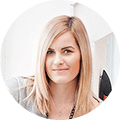
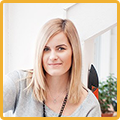
5,6
добавлены картинки в разметку и карты

diff --git a/contacts.html b/contacts.html
@@ -11,7 +11,7 @@
   <div class="container">
     <div class="logo">
         <a href="#" class="logo-link">
-          <img src="#" alt="грузовик" class="logo-link-img" />
+          <img src="img/truck_icon.svg" alt="грузовик" class="logo-link-img" />
           <span class="logo-link-text"><b>Спецтех</b>24</span>
         </a>
     </div>
@@ -38,7 +38,7 @@
 
   <div class="map">
     <div class="container">
-      <iframe src="https://www.google.com/maps/embed?pb=!1m18!1m12!1m3!1d2245.26317921276!2d37.61860631548347!3d55.753930280553625!2m3!1f0!2f0!3f0!3m2!1i1024!2i768!4f13.1!3m3!1m2!1s0x46b54a5a738fa419%3A0x7c347d506b52311f!2z0JrRgNCw0YHQvdCw0Y8g0J_Qu9C-0YnQsNC00Yw!5e0!3m2!1sru!2sru!4v1480448340563" width="600" height="450" frameborder="0" style="border:0" allowfullscreen></iframe>
+      <iframe src="https://www.google.com/maps/embed?pb=!1m18!1m12!1m3!1d2245.26317921276!2d37.61860631548347!3d55.753930280553625!2m3!1f0!2f0!3f0!3m2!1i1024!2i768!4f13.1!3m3!1m2!1s0x46b54a5a738fa419%3A0x7c347d506b52311f!2z0JrRgNCw0YHQvdCw0Y8g0J_Qu9C-0YnQsNC00Yw!5e0!3m2!1sru!2sru!4v1480448340563" width="620" height="395" frameborder="0" style="border:0" allowfullscreen></iframe>
       <div class="map-consult">
         <strong>Lorem.</strong>
         <strong>Lorem ipsum.</strong>
@@ -57,22 +57,22 @@
     <div class="container">
       <h2>Lorem.</h2>
       <div class="reply-item">      
-        <img src="#" alt="photo" />
+        <img src="img/tim2X3szprw2.png" alt="photo" />
       <blockquote class="reply-bq">Lorem ipsum dolor sit amet.</blockquote>
       <cite class="reply-author">Lorem ipsum dolor.</cite>
       </div>
       <div class="reply-item">      
-        <img src="#" alt="photo" />
+        <img src="img/9hJz4EqjRNQ.png" alt="photo" />
         <blockquote class="reply-bq">Lorem ipsum dolor sit amet.</blockquote>
         <cite class="reply-author">Lorem ipsum dolor.</cite>
       </div>
       <div class="reply-item">      
-        <img src="#" alt="photo" />
+        <img src="img/tuOPQaASJsc2.png" alt="photo" />
         <blockquote class="reply-bq">Lorem ipsum dolor sit amet.</blockquote>
         <cite class="reply-author">Lorem ipsum dolor.</cite>
       </div>
       <div class="reply-item">      
-        <img src="#" alt="photo" />
+        <img src="img/o6JLO1rRXUM.png" alt="photo" />
         <blockquote class="reply-bq">Lorem ipsum dolor sit amet.</blockquote>
         <cite class="reply-author">Lorem ipsum dolor.</cite>
       </div>
@@ -84,7 +84,7 @@
   <div class="container">
     <div class="logo">
         <a href="#" class="logo-link">
-          <img src="#" alt="грузовик" class="logo-link-img" />
+          <img src="img/truck_icon_white.svg" alt="грузовик" class="logo-link-img" />
           <span class="logo-link-text"><b>Спецтех</b>24</span>
         </a>
     </div>

diff --git a/catalog.html b/catalog.html
@@ -11,7 +11,7 @@
   <div class="container">
     <div class="logo">
         <a href="#" class="logo-link">
-          <img src="#" alt="грузовик" class="logo-link-img" />
+          <img src="img/truck_icon.svg" alt="грузовик" class="logo-link-img" />
           <span class="logo-link-text"><b>Спецтех</b>24</span>
         </a>
     </div>
@@ -54,7 +54,7 @@
 
       <div class="cat">
         <h2>Lorem ipsum dolor.</h2>
-        <img src="#" alt="cat M315D">
+        <img src="img/catm315d.png" alt="cat M315D">
         <span>Lorem ipsum.</span>
         <a href="#" class="cat-rent"></a>
         <a href="#" class="cat-more"></a>
@@ -62,7 +62,7 @@
 
       <div class="cat">
         <h2>Lorem ipsum dolor.</h2>
-        <img src="#" alt="cat M315D">
+        <img src="img/catm315d.png" alt="cat M315D">
         <span>Lorem ipsum.</span>
         <a href="#" class="cat-rent"></a>
         <a href="#" class="cat-more"></a>
@@ -71,7 +71,7 @@
   	 
       <div class="cat">
         <h2>Lorem ipsum dolor.</h2>
-        <img src="#" alt="cat M315D">
+        <img src="img/catm315d.png" alt="cat M315D">
         <span>Lorem ipsum.</span>
         <a href="#" class="cat-rent"></a>
         <a href="#" class="cat-more"></a>
@@ -79,7 +79,7 @@
 
       <div class="cat">
         <h2>Lorem ipsum dolor.</h2>
-        <img src="#" alt="cat M315D">
+        <img src="img/catm315d.png" alt="cat M315D">
         <span>Lorem ipsum.</span>
         <a href="#" class="cat-rent"></a>
         <a href="#" class="cat-more"></a>
@@ -99,7 +99,7 @@
 
     <div class="cat">
       <h2>Lorem ipsum dolor.</h2>
-      <img src="#" alt="cat M315D">
+      <img src="img/catm315d.png" alt="cat M315D">
       <span><s>Lorem.</s>Lorem ipsum.</span>
       <a href="#" class="cat-rent"></a>
       <a href="#" class="cat-more"></a>
@@ -107,7 +107,7 @@
 
     <div class="cat">
       <h2>Lorem ipsum dolor.</h2>
-      <img src="#" alt="cat M315D">
+      <img src="img/catm315d.png" alt="cat M315D">
       <span><s>Lorem.</s>Lorem ipsum.</span>
       <a href="#" class="cat-rent"></a>
       <a href="#" class="cat-more"></a>
@@ -115,7 +115,7 @@
 
     <div class="cat">
       <h2>Lorem ipsum dolor.</h2>
-      <img src="#" alt="cat M315D">
+      <img src="img/catm315d.png" alt="cat M315D">
       <span><s>Lorem.</s>Lorem ipsum.</span>
       <a href="#" class="cat-rent"></a>
       <a href="#" class="cat-more"></a>
@@ -128,7 +128,7 @@
   <div class="container">
     <div class="logo">
         <a href="#" class="logo-link">
-          <img src="#" alt="грузовик" class="logo-link-img" />
+          <img src="img/truck_icon_white.svg" alt="грузовик" class="logo-link-img" />
           <span class="logo-link-text"><b>Спецтех</b>24</span>
         </a>
     </div>

diff --git a/index.html b/index.html
@@ -11,7 +11,7 @@
   <div class="container">
     <div class="logo">
         <a href="#" class="logo-link">
-          <img src="#" alt="грузовик" class="logo-link-img" />
+          <img src="img/truck_icon.svg" alt="грузовик" class="logo-link-img" />
           <span class="logo-link-text"><b>Спецтех</b>24</span>
         </a>
     </div>
@@ -104,12 +104,12 @@
       <div class="reply">
         <h2>Lorem ipsum dolor.</h2>
         <div class="reply-item">      
-          <img src="#" alt="photo" />
+          <img src="img/tim2X3szprw.png" alt="photo" />
           <blockquote class="reply-bq">Lorem ipsum dolor sit amet.</blockquote>
           <cite class="reply-author">Lorem ipsum dolor.</cite>
         </div>
         <div class="reply-item">      
-          <img src="#" alt="photo" />
+          <img src="img/tuOPQaASJsc.png" alt="photo" />
           <blockquote class="reply-bq">Lorem ipsum dolor sit amet.</blockquote>
           <cite class="reply-author">Lorem ipsum dolor.</cite>
         </div>
@@ -117,7 +117,7 @@
     </div>
   </div>
 
-  <iframe src="https://api-maps.yandex.ru/frame/v1/-/CZDieTl9" width="960" height="400" frameborder="0"></iframe>
+  <iframe src="https://api-maps.yandex.ru/frame/v1/-/CZDieTl9" width="100%" height="500" frameborder="0"></iframe>
 
 </main>
 
@@ -125,7 +125,7 @@
   <div class="container">
     <div class="logo">
         <a href="#" class="logo-link">
-          <img src="#" alt="грузовик" class="logo-link-img" />
+          <img src="img/truck_icon_white.svg" alt="грузовик" class="logo-link-img" />
           <span class="logo-link-text"><b>Спецтех</b>24</span>
         </a>
     </div>

diff --git a/portfolio.html b/portfolio.html
@@ -11,7 +11,7 @@
   <div class="container">
     <div class="logo">
         <a href="#" class="logo-link">
-          <img src="#" alt="грузовик" class="logo-link-img" />
+          <img src="img/truck_icon.svg" alt="грузовик" class="logo-link-img" />
           <span class="logo-link-text"><b>Спецтех</b>24</span>
         </a>
     </div>
@@ -99,7 +99,7 @@
   <div class="container">
     <div class="logo">
         <a href="#" class="logo-link">
-          <img src="#" alt="грузовик" class="logo-link-img" />
+          <img src="img/truck_icon_white.svg" alt="грузовик" class="logo-link-img" />
           <span class="logo-link-text"><b>Спецтех</b>24</span>
         </a>
     </div>
